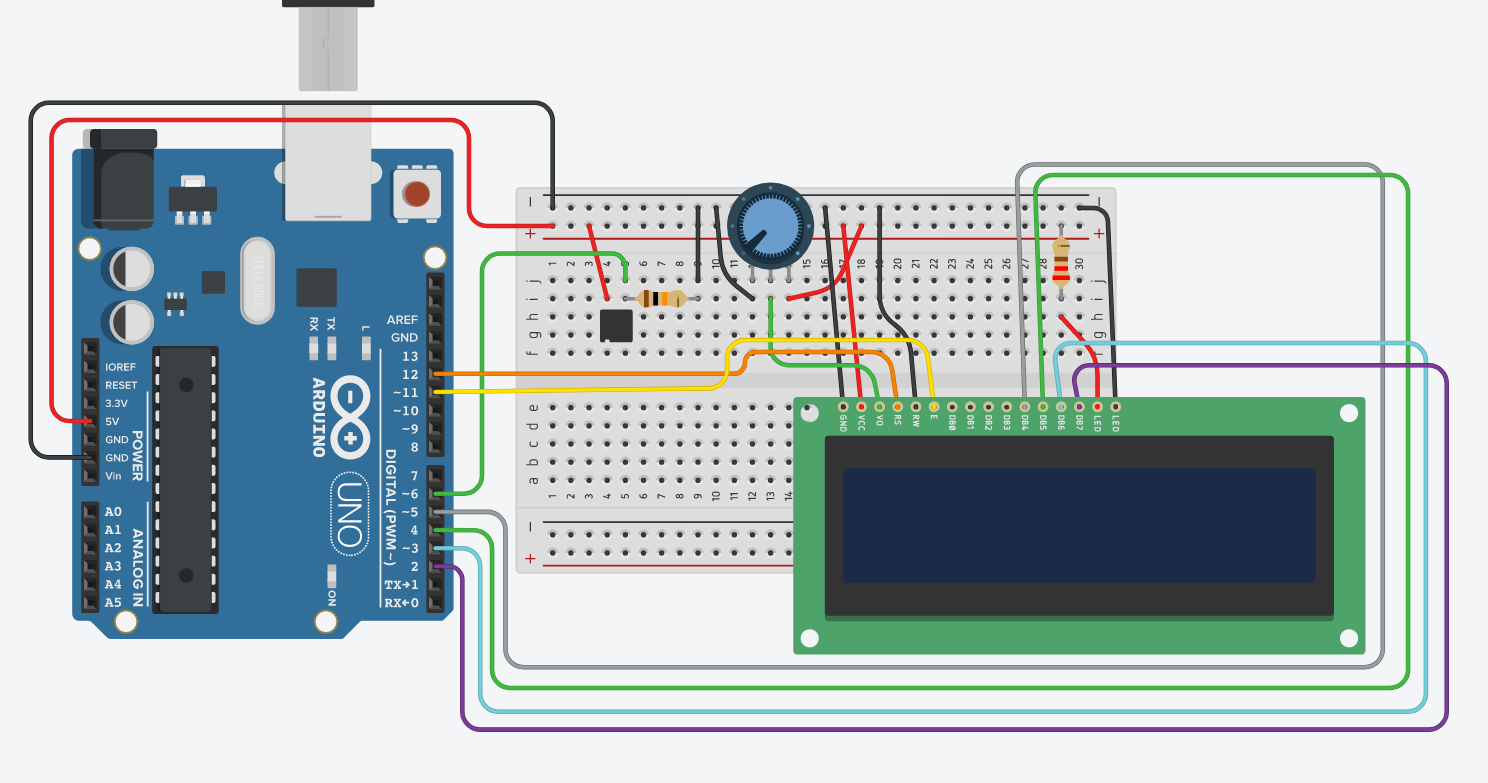
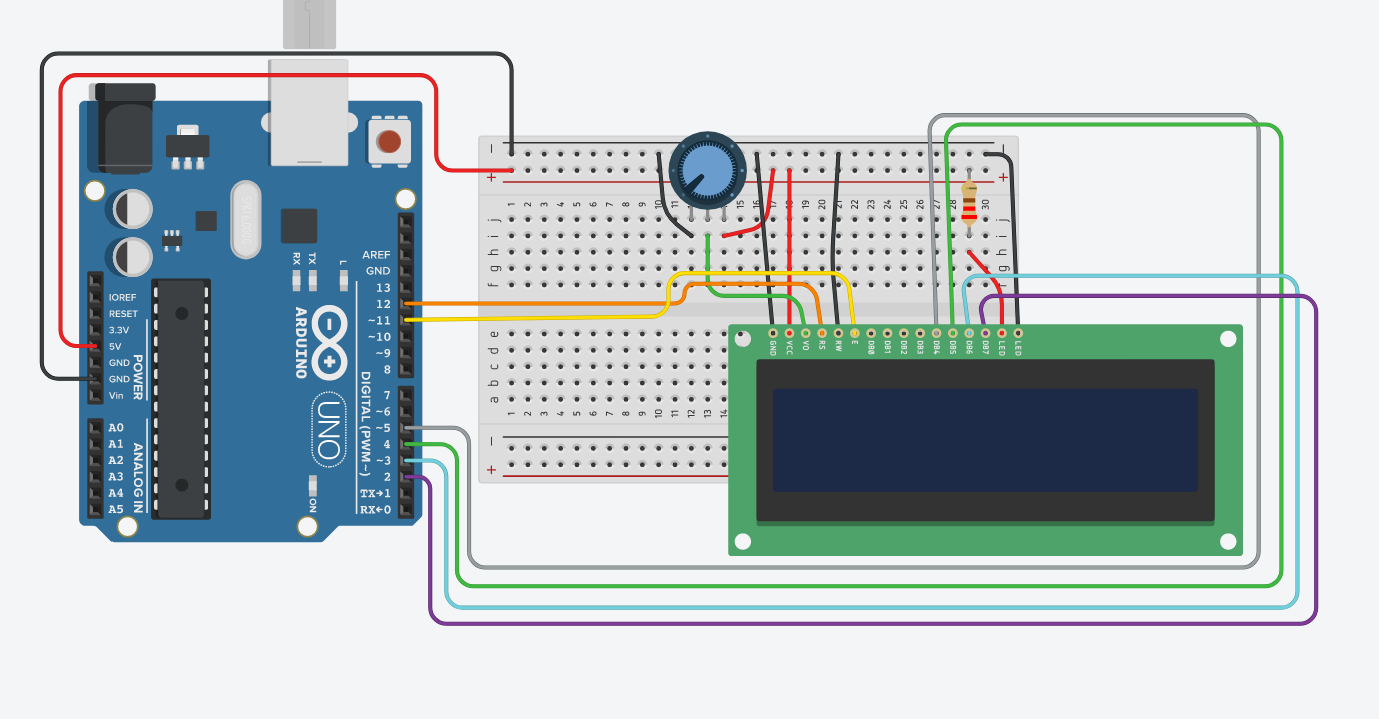
Actividades agregadas

diff --git a/docs/U1A.html b/docs/U1A.html
@@ -1233,6 +1233,42 @@ int ping(int pinTrigger, int pinEcho)
 <p>El conjunto de conexiones necesarias para la pantalla LCD de 16x2 sí resulta algo laborioso, ya que son bastantes y de cuidado. A continuación mostramos lo necesario para armarlo.</p>
 <div id="material-13" class="section level4">
 <h4>Material</h4>
+<ul>
+<li><p>Potenciómetro</p></li>
+<li><p>Resistencia de 220<span class="math inline">\(\Omega\)</span></p></li>
+<li><p>Pantalla LCD 16x2</p></li>
+<li><p>Tablilla de prototipado</p></li>
+<li><p>Arduino UNO</p></li>
+</ul>
+</div>
+<div id="circuito-12" class="section level4">
+<h4>Circuito</h4>
+<p>Utilizaremos una LCD de 16 columnas y 2 renglones. El pot se incluye para controlar el brillo de la pantalla.</p>
+<p><img src="images/103-circuito-15.png" /></p>
+</div>
+<div id="código-16" class="section level4">
+<h4>Código</h4>
+<p>Se muestra el código para mostrar el clásico «hola mundo» y un contador del tiempo que lleva activo. Debe agregarse la librería correspondiente.</p>
+<pre class="{c++}"><code>#include &lt;LiquidCrystal.h&gt;
+
+const int filas = 2; // declaramos el número de filas o renglones
+const int columnas = 16; // declaramos el número de columnas 
+// declaramos los pines a utilizar para la interfaz
+LiquidCrystal lcd(12, 11, 5, 4, 3, 2);
+
+void setup()
+{
+  lcd.begin(columnas, filas);
+  lcd.print(&quot;hola mundo!&quot;); // Imprimimos el mensaje
+}
+
+void loop()
+{
+// Llevamos el cursor a la columna 0, fila 1
+// (se comienza a contar desde 0):
+lcd.setCursor(0, 1);
+lcd.print(millis()/1000);// Imprimimos el tiempo de actividad
+}</code></pre>
 </div>
 </div>
 </div>
